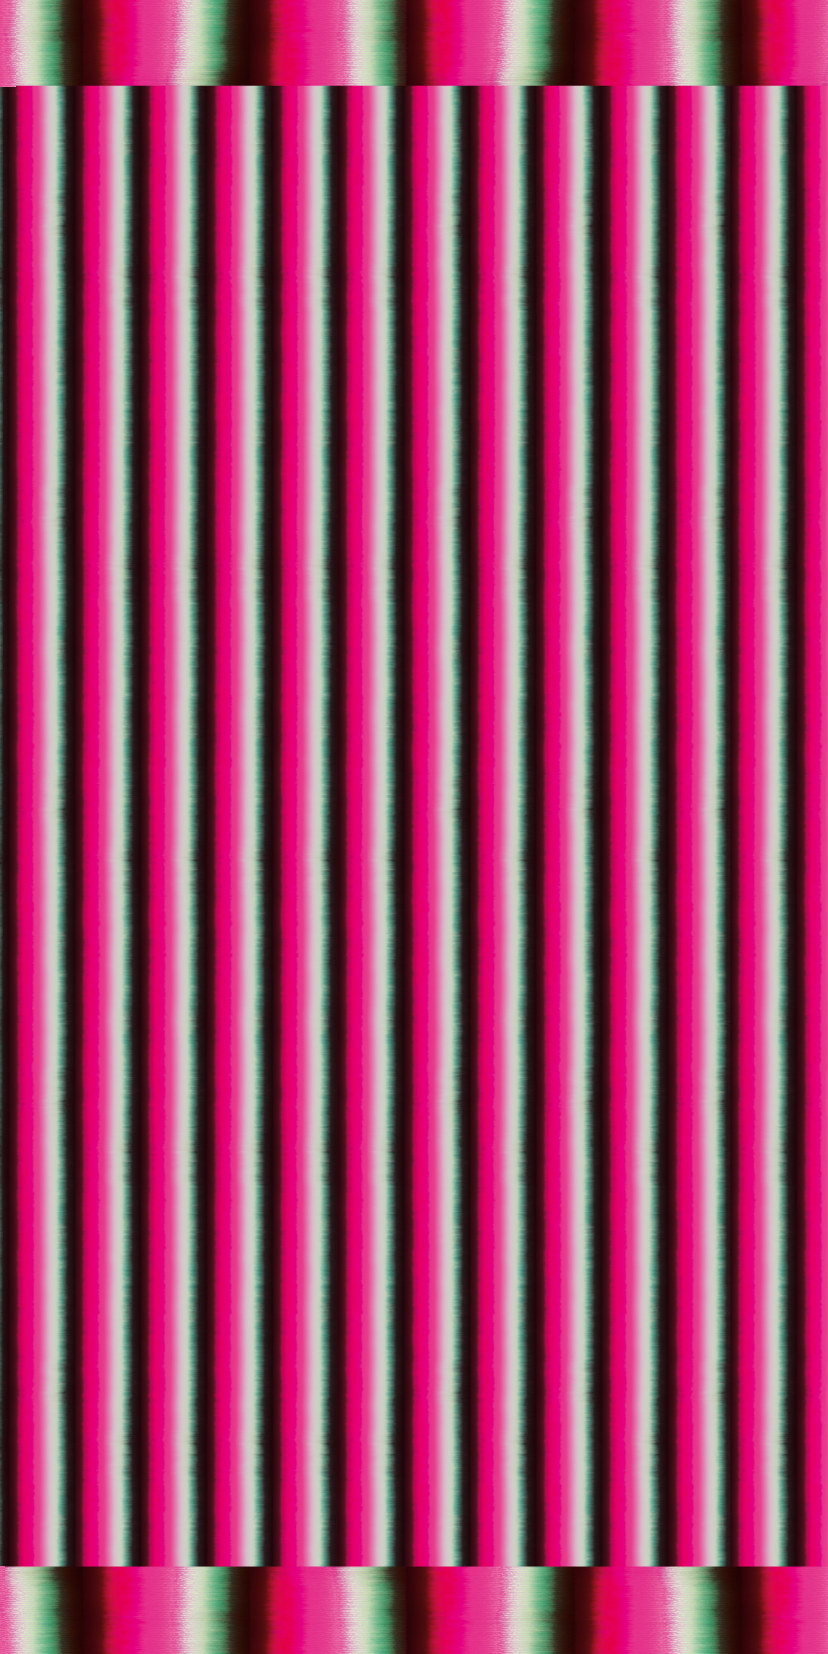
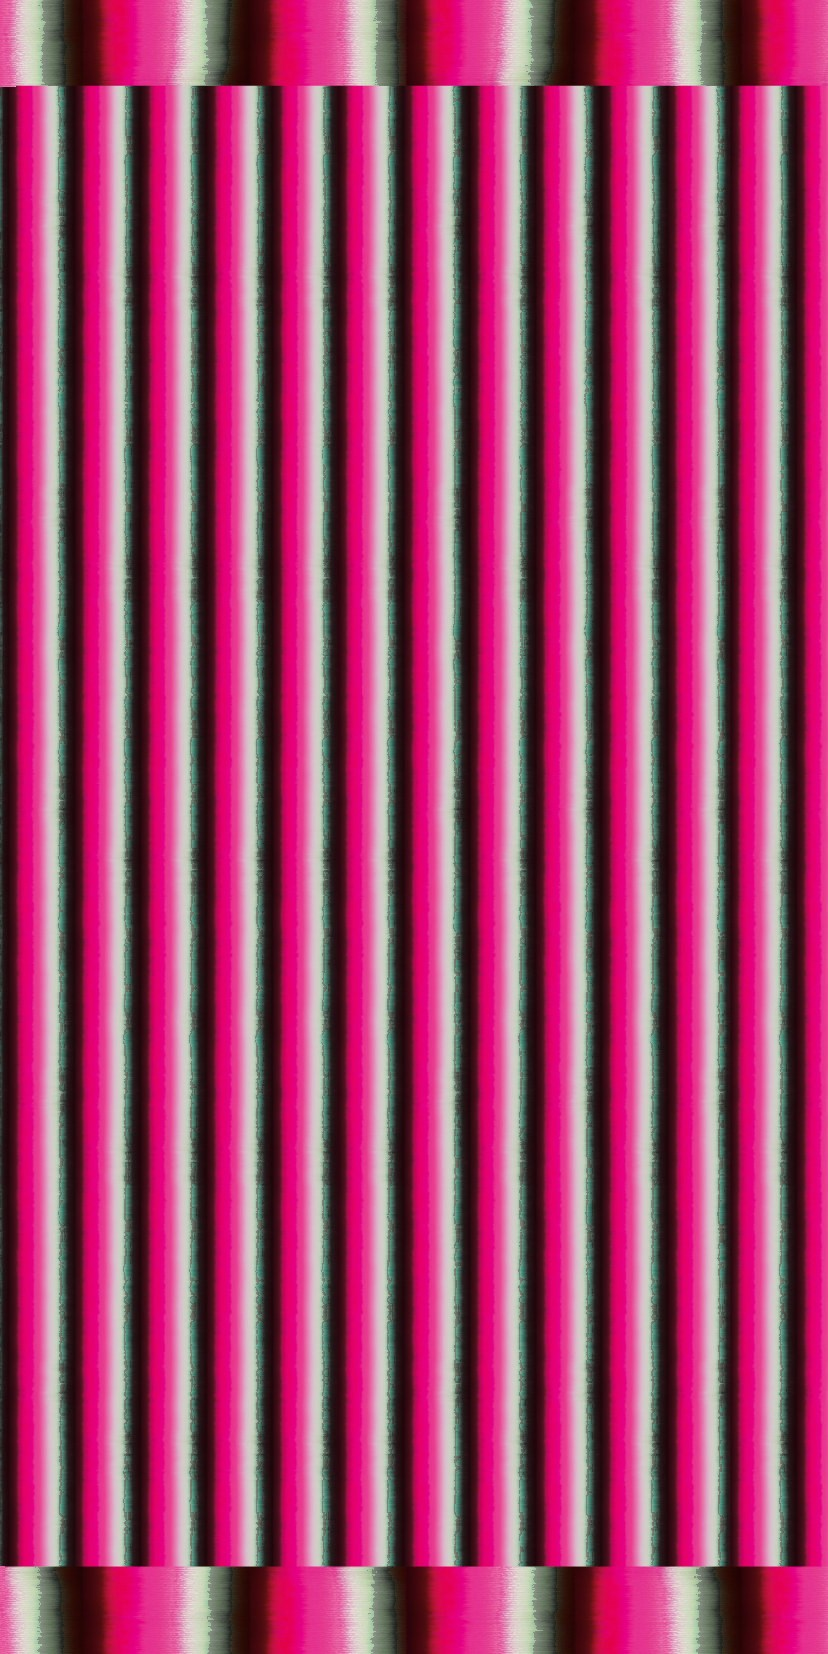
feat: font uniformity, menu recolor, hours/jobs copy, event video cue
- menu: recolor food cover + panels from fluo lime to Moss Green #819779; FOOD/DRINKS title, menu label and download links now black (matches mockup)
- fonts: align live site to the 3 brand fonts per the brief — nav pills + WhatsApp button now Lioney; menu labels + Get-directions now VTC Marsha
- hours: switch hero + footer to the MON-TUE-WED-THU 16U00 format
- footer: dedicated Jobs block with teaser copy
- events: Watch-video badge on the centered card when it has a recap video

diff --git a/components/sections/Footer.tsx b/components/sections/Footer.tsx
@@ -11,7 +11,7 @@ export function Footer() {
   const jobsHref = locale === defaultLocale ? "/jobs" : `/${locale}/jobs`
   return (
     <footer className="bg-ink text-bg px-4 py-16">
-      <div className="mx-auto grid max-w-6xl gap-10 md:grid-cols-3">
+      <div className="mx-auto grid max-w-6xl gap-10 md:grid-cols-2 lg:grid-cols-4">
         <div>
           <h4 className="font-subtitle text-accent text-sm tracking-wide uppercase">
             {t("footer.contact")}
@@ -64,12 +64,19 @@ export function Footer() {
                 <Icon.Instagram className="h-4 w-4" /> @{CONTACT.instagramHandle}
               </a>
             </li>
-            <li>
-              <Link href={jobsHref} className="hover:text-accent inline-flex items-center gap-2">
-                {t("footer.jobs")}
-              </Link>
-            </li>
           </ul>
+        </div>
+
+        <div>
+          <h4 className="font-subtitle text-accent text-sm tracking-wide uppercase">
+            {t("footer.jobs")}
+          </h4>
+          <Link
+            href={jobsHref}
+            className="font-body hover:text-accent mt-4 inline-block tracking-wide uppercase"
+          >
+            {t("footer.jobsTeaser")}
+          </Link>
         </div>
       </div>
       <p className="font-body text-bg/60 mt-12 text-center text-xs">

diff --git a/components/sections/Events.tsx b/components/sections/Events.tsx
@@ -6,6 +6,7 @@ import { todayBrussels } from "@/lib/dates"
 import { cn } from "@/lib/cn"
 import eventsData from "@/content/events.json"
 import { PopupModal } from "@/components/PopupModal"
+import { Icon } from "@/components/ui/Icon"
 import type { Popup } from "@/lib/popup"
 
 // Horizontal pixels of drag movement before we consider a gesture a swipe
@@ -225,6 +226,19 @@ export function Events() {
                 className="block h-[280px] w-auto rounded-md shadow-[0_20px_60px_-12px_rgba(0,0,0,0.6)] md:h-[560px]"
                 draggable={false}
               />
+              {/* "Watch video" affordance — only on the centered card that has a
+                  recap video, so users know a click plays it (not just a poster). */}
+              {event.video && abs === 0 && (
+                <span
+                  aria-hidden
+                  className="text-bg pointer-events-none absolute inset-x-0 bottom-3 mx-auto flex w-fit items-center gap-2 rounded-full bg-black/75 px-3 py-1.5 shadow-lg backdrop-blur-sm md:bottom-5 md:px-4 md:py-2"
+                >
+                  <Icon.Play className="h-3.5 w-3.5 fill-current md:h-4 md:w-4" />
+                  <span className="font-subtitle text-[10px] tracking-wide uppercase md:text-xs">
+                    {t("watchVideo")}
+                  </span>
+                </span>
+              )}
             </button>
           )
         })}

diff --git a/components/FoldBrochure.tsx b/components/FoldBrochure.tsx
@@ -31,10 +31,10 @@ export function FoldBrochure({ panels, panelsPerSide, label, pdfHref, alt }: Fol
       <div className="flex flex-col items-stretch gap-4">
         {/* Big magenta VTC Marsha title + small underlined "Menu" tagline */}
         <header className="text-center">
-          <h3 className="font-subtitle text-accent text-4xl leading-none tracking-tight uppercase md:text-5xl">
+          <h3 className="font-subtitle text-4xl leading-none tracking-tight text-black uppercase md:text-5xl">
             {label}
           </h3>
-          <p className="font-body text-ink mt-1 inline-block border-b border-current text-xs tracking-[0.25em] uppercase">
+          <p className="font-subtitle mt-1 inline-block border-b border-current text-xs tracking-[0.25em] text-black uppercase">
             {t("label")}
           </p>
         </header>
@@ -64,7 +64,7 @@ export function FoldBrochure({ panels, panelsPerSide, label, pdfHref, alt }: Fol
           href={pdfHref}
           target="_blank"
           rel="noopener noreferrer"
-          className="font-body text-accent inline-flex items-center gap-2 self-center text-sm tracking-wide uppercase hover:underline"
+          className="font-subtitle inline-flex items-center gap-2 self-center text-sm tracking-wide text-black uppercase hover:underline"
         >
           {t("download")}
         </a>
@@ -130,7 +130,7 @@ export function FoldBrochure({ panels, panelsPerSide, label, pdfHref, alt }: Fol
               href={pdfHref}
               target="_blank"
               rel="noopener noreferrer"
-              className="font-body text-sm tracking-wide text-white/90 uppercase hover:text-white hover:underline"
+              className="font-subtitle text-sm tracking-wide text-white/90 uppercase hover:text-white hover:underline"
             >
               {t("download")}
             </a>

diff --git a/components/sections/Location.tsx b/components/sections/Location.tsx
@@ -71,7 +71,7 @@ export function Location() {
             href="https://maps.google.com/?q=Lammerstraat+13,+9000+Gent"
             target="_blank"
             rel="noopener noreferrer"
-            className="font-body text-accent inline-flex items-center gap-1.5 text-xs tracking-wide uppercase hover:underline"
+            className="font-subtitle text-accent inline-flex items-center gap-1.5 text-xs tracking-wide uppercase hover:underline"
           >
             <Icon.MapPin className="h-3.5 w-3.5" /> {t("directions")}
           </a>

diff --git a/components/sections/Reservation.tsx b/components/sections/Reservation.tsx
@@ -79,7 +79,7 @@ export function Reservation() {
           "inline-flex w-full max-w-md items-center justify-center gap-3 md:w-auto md:max-w-none md:px-10",
           "rounded-full px-8 py-4",
           "bg-[#25D366] text-white",
-          "font-subtitle text-base tracking-wide uppercase",
+          "font-title text-base tracking-wide uppercase",
           "shadow-[0_18px_50px_-12px_rgba(37,211,102,0.7)]",
           "transition-all duration-200 hover:-translate-y-0.5 hover:bg-[#1FB855] hover:shadow-[0_22px_60px_-14px_rgba(37,211,102,0.85)]",
           "active:translate-y-0",

diff --git a/components/ui/Pill.tsx b/components/ui/Pill.tsx
@@ -13,7 +13,7 @@ type ButtonPill = Common & ButtonHTMLAttributes<HTMLButtonElement> & { href?: un
 type PillProps = LinkPill | ButtonPill
 
 const base =
-  "inline-flex items-center justify-center rounded-full px-5 py-2 font-subtitle uppercase tracking-wide text-sm transition-transform duration-150 ease-out hover:-translate-y-px focus-visible:outline-none focus-visible:ring-2 focus-visible:ring-ink focus-visible:ring-offset-2 focus-visible:ring-offset-bg"
+  "inline-flex items-center justify-center rounded-full px-5 py-2 font-title uppercase tracking-wide text-sm transition-transform duration-150 ease-out hover:-translate-y-px focus-visible:outline-none focus-visible:ring-2 focus-visible:ring-ink focus-visible:ring-offset-2 focus-visible:ring-offset-bg"
 
 const variants: Record<NonNullable<Common["variant"]>, string> = {
   solid: "bg-accent text-white shadow-sm",